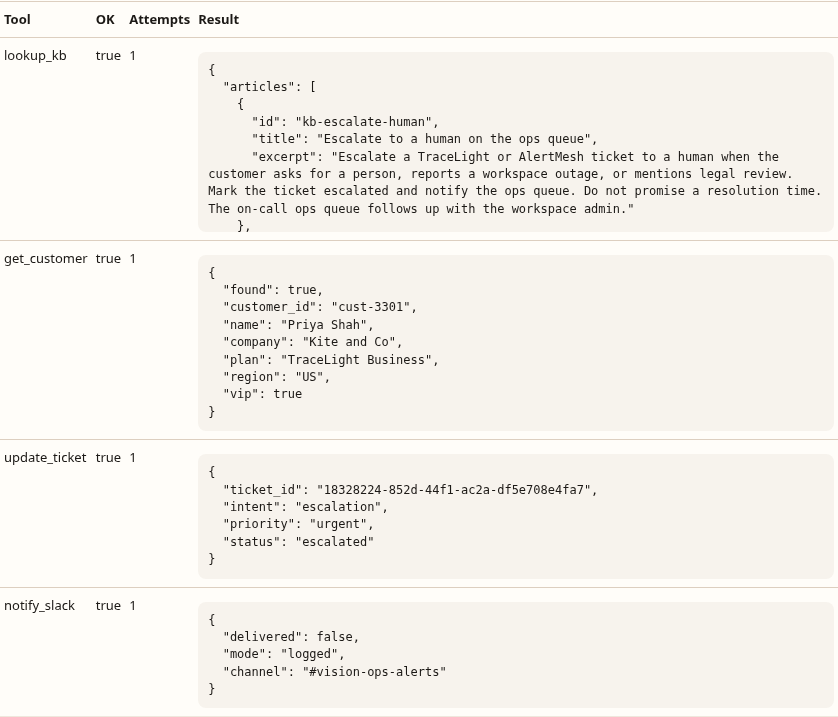
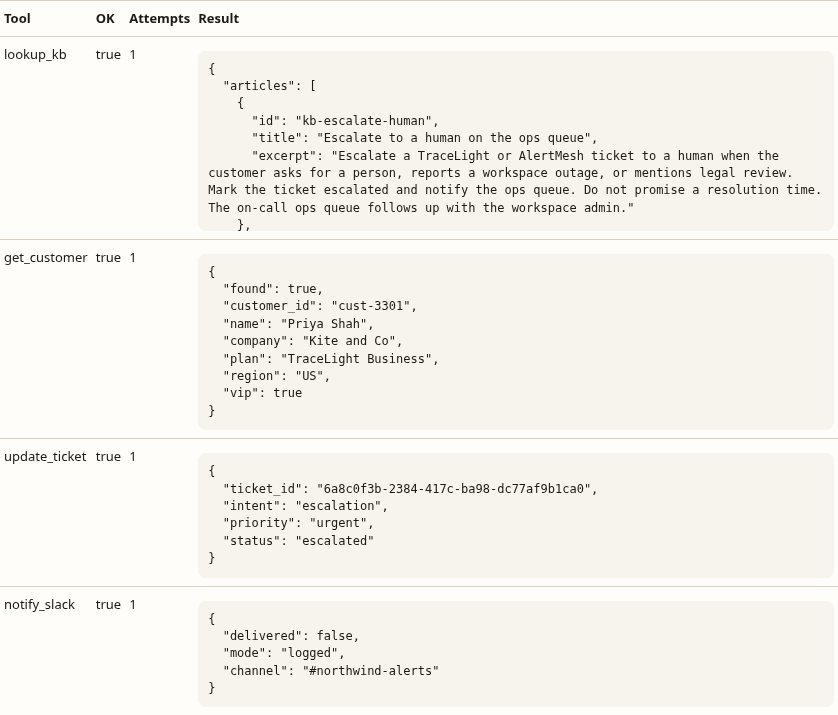
chore: rename the fictional company to Northwind Systems
Drop Vision AI Ops from the demo, knowledge base, handoff page, and n8n bridge. The workflow file is now n8n/ticket-bridge.json.

diff --git a/app/web/handoff.html b/app/web/handoff.html
@@ -3,7 +3,7 @@
 <head>
   <meta charset="utf-8">
   <meta name="viewport" content="width=device-width, initial-scale=1">
-  <title>Human handoff — Vision AI Ops</title>
+  <title>Human handoff — Northwind Systems</title>
   <style>
     :root {
       --bg: #efe7dc;
@@ -136,7 +136,7 @@
   <header>
     <div>
       <h1>Human handoff</h1>
-      <p class="lede">Vision AI Ops desk. Read ticket status and the tool trace, then escalate or assign a queue. The planner is not called again.</p>
+      <p class="lede">Northwind Systems desk for northwind.example. Read ticket status and the tool trace, then escalate or assign a queue. The planner is not called again.</p>
     </div>
     <p class="lede">Local demo on port 8789. Fictional tickets only.</p>
   </header>

diff --git a/app/agent/planner.py b/app/agent/planner.py
@@ -53,7 +53,7 @@ class HeuristicPlanner:
         if not _seen(history, "lookup_kb"):
             query = f"{ticket.subject}. {ticket.body}"[:500]
             return Decision(
-                thought="Look up Vision AI Ops notes before answering.",
+                thought="Look up Northwind Systems (northwind.example) notes before answering.",
                 action="tool",
                 tool="lookup_kb",
                 arguments={"query": query},
@@ -83,7 +83,7 @@ class HeuristicPlanner:
                 action="tool",
                 tool="notify_slack",
                 arguments={
-                    "channel": get_settings().slack_channel or "#vision-ops-alerts",
+                    "channel": get_settings().slack_channel or "#northwind-alerts",
                     "intent": classification.intent,
                     "priority": classification.priority,
                 },
@@ -144,7 +144,7 @@ class LlmPlanner:
 def _messages(ticket: Ticket, history: list[dict]) -> list[dict[str, str]]:
     tool_list = "lookup_kb, get_customer, create_ticket, update_ticket, notify_slack"
     system = (
-        "You are the planner for a Vision AI Ops customer operations agent. "
+        "You are the planner for a Northwind Systems (northwind.example) customer operations agent. "
         "Reply with ONLY JSON: "
         '{"thought":"short","action":"tool"|"final","tool":"name or null",'
         '"arguments":{},"final_reply":"string or null"}. '
@@ -156,7 +156,7 @@ def _messages(ticket: Ticket, history: list[dict]) -> list[dict[str, str]]:
         "priority is low|medium|high|urgent, "
         "status is open|in_progress|waiting_customer|resolved|escalated. "
         "notify_slack arguments: {channel, intent, priority} and channel must be "
-        "#vision-ops-alerts. Use tools before the final reply."
+        "#northwind-alerts. Use tools before the final reply."
     )
     summary = [
         {

diff --git a/app/models/schemas.py b/app/models/schemas.py
@@ -176,7 +176,7 @@ class N8nInbound(BaseModel):
     customer_id: str | None = Field(default=None, max_length=64, pattern=r"^[A-Za-z0-9_-]+$")
     channel: Channel = "portal"
     external_id: str | None = Field(default=None, max_length=128, pattern=r"^[A-Za-z0-9_.:-]+$")
-    workflow: str = Field(default="vision-ops-ticket-bridge", max_length=80, pattern=r"^[A-Za-z0-9_.:-]+$")
+    workflow: str = Field(default="ticket-bridge", max_length=80, pattern=r"^[A-Za-z0-9_.:-]+$")
 
 
 class N8nInboundOut(BaseModel):
@@ -191,7 +191,7 @@ class N8nInboundOut(BaseModel):
 
 class N8nStatusIn(BaseModel):
     ticket_id: str = Field(min_length=1, max_length=36)
-    workflow: str = Field(default="vision-ops-ticket-bridge", max_length=80, pattern=r"^[A-Za-z0-9_.:-]+$")
+    workflow: str = Field(default="ticket-bridge", max_length=80, pattern=r"^[A-Za-z0-9_.:-]+$")
     status: N8nBridgeStatus
     external_id: str | None = Field(default=None, max_length=128, pattern=r"^[A-Za-z0-9_.:-]+$")
     note: str | None = Field(default=None, max_length=300)

diff --git a/scripts/capture_demo.py b/scripts/capture_demo.py
@@ -27,7 +27,7 @@ from pathlib import Path
 
 ROOT = Path(__file__).resolve().parents[1]
 OUT = ROOT / "docs" / "screenshots"
-WORKFLOW = ROOT / "n8n" / "vision-ops-ticket-bridge.json"
+WORKFLOW = ROOT / "n8n" / "ticket-bridge.json"
 DEMOS = ROOT / "examples" / "demo_requests.json"
 
 
@@ -93,7 +93,7 @@ def _canvas(workflow: dict) -> str:
   .arrow:after {{ content: ""; position: absolute; right: -1px; top: -4px; border: 5px solid transparent; border-left-color: #0e5f57; }}
 </style></head>
 <body><main>
-  <h1>Workflow map — n8n/vision-ops-ticket-bridge.json</h1>
+  <h1>Workflow map — n8n/ticket-bridge.json</h1>
   <p>Not a live n8n editor. Import the JSON to open this graph in n8n. The HTTP nodes read OPS_AGENT_URL and OPS_AGENT_API_KEY from the n8n environment.</p>
   <div class="canvas">{inner}</div>
 </main></body></html>"""

diff --git a/app/tools/__init__.py b/app/tools/__init__.py
@@ -61,7 +61,7 @@ class UpdateTicketArgs(BaseModel):
 
 class NotifySlackArgs(BaseModel):
     model_config = ConfigDict(extra="forbid")
-    channel: str = "#vision-ops-alerts"
+    channel: str = "#northwind-alerts"
     intent: Intent
     priority: Priority
 
@@ -196,7 +196,7 @@ def update_ticket(ctx: ToolContext, args: UpdateTicketArgs) -> dict:
 
 def notify_slack(ctx: ToolContext, args: NotifySlackArgs) -> dict:
     """Post a metadata-only line, or log when SLACK_WEBHOOK_URL is unset."""
-    allowed = (get_settings().slack_channel or "#vision-ops-alerts").strip()
+    allowed = (get_settings().slack_channel or "#northwind-alerts").strip()
     if args.channel != allowed:
         raise ToolError("channel_not_allowed")
     # Planner-supplied prose is ignored. The payload is ticket metadata only.

diff --git a/tests/test_n8n.py b/tests/test_n8n.py
@@ -3,7 +3,7 @@ import logging
 from pathlib import Path
 
 CRM_EMAIL = "priya.shah@kite.example"
-WORKFLOW = Path("n8n/vision-ops-ticket-bridge.json")
+WORKFLOW = Path("n8n/ticket-bridge.json")
 INBOUND = Path("examples/n8n_inbound.json")
 
 
@@ -19,7 +19,7 @@ def test_inbound_runs_agent_and_status_round_trip(client, auth_headers, caplog):
     body = created.json()
     assert body["accepted"] is True
     assert body["idempotent"] is False
-    assert body["workflow"] == "vision-ops-ticket-bridge"
+    assert body["workflow"] == "ticket-bridge"
     assert body["external_id"] == payload["external_id"]
     assert body["run"]["intent"] == "escalation"
     assert body["run"]["ticket_status"] == "escalated"

diff --git a/app/core/config.py b/app/core/config.py
@@ -35,7 +35,7 @@ class Settings(BaseSettings):
     ai_max_retries: int = 3
 
     slack_webhook_url: str = ""
-    slack_channel: str = "#vision-ops-alerts"
+    slack_channel: str = "#northwind-alerts"
 
     max_tool_rounds: int = Field(default=6, ge=1, le=12)
     tool_max_attempts: int = Field(default=3, ge=1, le=5)

diff --git a/README.md b/README.md
@@ -2,13 +2,13 @@
 
 [![CI](https://github.com/Birra3324/customer-operations-agent/actions/workflows/ci.yml/badge.svg)](https://github.com/Birra3324/customer-operations-agent/actions/workflows/ci.yml)
 
-> Open to remote AI automation roles. Email: birragemedi@gmail.com | GitHub: @Birra3324 | LinkedIn: linkedin.com/in/birra-gemedi-813337199/
+> Open to remote AI automation roles. Email: birragemedi@gmail.com | GitHub: @Birra3324 | LinkedIn: https://www.linkedin.com/in/birra-gemedi-813337199/
 
 FastAPI service that turns a support ticket into a structured agent run: a planner chooses the next step, an executor calls allowlisted mock tools, and SQLite stores the plan, tool trace, reply, and ticket status.
 
 Built as a local portfolio demo. The default planner is a deterministic heuristic, so clone, pytest, and the walkthrough need no GPU, no Ollama, and no paid API key. Ollama or OpenAI are optional via environment variables. Source: [github.com/Birra3324/customer-operations-agent](https://github.com/Birra3324/customer-operations-agent) (no hosted demo URL).
 
-Sample tickets are fictional **Vision AI Ops** requests (TraceLight / AlertMesh), the same made-up company as the company RAG demo. There is no real customer data in git.
+Sample tickets are fictional **Northwind Systems** (northwind.example) requests (TraceLight / AlertMesh), the same made-up company as the company RAG demo. There is no real customer data in git.
 
 **How to demo:** [10–15 minute walkthrough](docs/demo.md) — venv, uvicorn on `:8789`, post the three [example tickets](examples/demo_requests.json), open the [handoff page](http://127.0.0.1:8789/handoff), then the [n8n bridge](docs/n8n.md). Screenshots: [docs/screenshots](docs/screenshots/).
 
@@ -138,7 +138,7 @@ The run record includes `plan` (planner and executor steps), `tool_calls`, `fina
 
 | Tool | What it does |
 | --- | --- |
-| `lookup_kb` | Searches `data/kb.json` (fictional Vision AI Ops articles). |
+| `lookup_kb` | Searches `data/kb.json` (fictional Northwind Systems articles for northwind.example). |
 | `get_customer` | Reads `data/crm.json`. Email stays in the file and is not returned. |
 | `create_ticket` | Inserts a ticket row. The HTTP create path opens the row first; the tool is for agent-driven creates. |
 | `update_ticket` | Sets intent, priority, and status on the current ticket only. |
@@ -185,7 +185,7 @@ Expectations for those three are in [evals/scenarios.json](evals/scenarios.json)
 
 With the API running, open [http://127.0.0.1:8789/handoff](http://127.0.0.1:8789/handoff), paste `API_KEY`, and load the queue. You can escalate, assign `ops-queue`, `billing-desk`, or `access-desk`, or mark a ticket resolved. That does not call the planner again.
 
-The n8n workflow is [n8n/vision-ops-ticket-bridge.json](n8n/vision-ops-ticket-bridge.json). Import notes and the no-n8n curl path are in [docs/n8n.md](docs/n8n.md).
+The n8n workflow is [n8n/ticket-bridge.json](n8n/ticket-bridge.json). Import notes and the no-n8n curl path are in [docs/n8n.md](docs/n8n.md).
 
 ```bash
 API_KEY="$API_KEY" python scripts/post_n8n_demo.py

diff --git a/docs/demo.md b/docs/demo.md
@@ -128,7 +128,7 @@ Queues are the three fictional names `ops-queue`, `billing-desk`, and `access-de
 
 ## 7. n8n bridge (~3 min)
 
-You do not need n8n installed to show the path. The importable workflow is [n8n/vision-ops-ticket-bridge.json](../n8n/vision-ops-ticket-bridge.json). The HTTP nodes call this API and read `OPS_AGENT_URL` and `OPS_AGENT_API_KEY` from the n8n environment. The key is not in the JSON. Full notes: [n8n.md](n8n.md).
+You do not need n8n installed to show the path. The importable workflow is [n8n/ticket-bridge.json](../n8n/ticket-bridge.json). The HTTP nodes call this API and read `OPS_AGENT_URL` and `OPS_AGENT_API_KEY` from the n8n environment. The key is not in the JSON. Full notes: [n8n.md](n8n.md).
 
 ```bash
 API_KEY="$API_KEY" python scripts/post_n8n_demo.py
@@ -140,10 +140,10 @@ Talking points:
 
 - HTTP 201 the first time, with `idempotent: false`, intent `escalation`, and a tool trace.
 - Run the script again. HTTP 200, `idempotent: true`, same ticket id and same run id. `external_id` is `demo-n8n-kite-outage`.
-- Reload the handoff page. The ticket detail includes an n8n line: `vision-ops-ticket-bridge · status.posted`.
+- Reload the handoff page. The ticket detail includes an n8n line: `ticket-bridge · status.posted`.
 - `GET /api/v1/integrations/n8n/events` lists those rows. The status callback does not overwrite the ticket status.
 
-[screenshots/n8n-canvas.png](screenshots/n8n-canvas.png) is a map of the three nodes (receive, call the agent, post status). It is not a live n8n editor. If n8n is installed, import the JSON, set the two environment variables on the n8n process, activate the workflow, and POST the subject/body from `examples/n8n_inbound.json` to the webhook path `vision-ops-ticket`. Leave the API key out of the file.
+[screenshots/n8n-canvas.png](screenshots/n8n-canvas.png) is a map of the three nodes (receive, call the agent, post status). It is not a live n8n editor. If n8n is installed, import the JSON, set the two environment variables on the n8n process, activate the workflow, and POST the subject/body from `examples/n8n_inbound.json` to the webhook path `northwind-ticket`. Leave the API key out of the file.
 
 ## 8. Optional: show the retry (~1 min)
 

diff --git a/docs/architecture.md b/docs/architecture.md
@@ -69,7 +69,7 @@ Guardrails:
 - **Arguments.** Each tool has a Pydantic model with `extra=forbid`. Unknown fields such as a URL on `lookup_kb` return `invalid_arguments` and the tool body does not run.
 - **Max rounds.** `MAX_TOOL_ROUNDS` (default 6). Hitting the cap stores `status=needs_review` and does not keep calling tools.
 - **No open network.** Knowledge and CRM reads are local files. Ticket writes are SQLite. The only HTTP client in the tool layer is the Slack webhook, and only when `SLACK_WEBHOOK_URL` is set. The message body is built inside the tool; planner-supplied prose is not posted.
-- **Channel.** `notify_slack` accepts only `SLACK_CHANNEL` (default `#vision-ops-alerts`).
+- **Channel.** `notify_slack` accepts only `SLACK_CHANNEL` (default `#northwind-alerts`).
 
 ## Retry and backoff
 
@@ -113,7 +113,7 @@ SQLite files created before these columns exist get `assignee`, `handoff_note`, 
 
 ## n8n bridge
 
-The workflow in `n8n/vision-ops-ticket-bridge.json` is inactive until someone turns it on. Webhook, then `POST /api/v1/integrations/n8n/inbound`, then `POST /api/v1/integrations/n8n/status`.
+The workflow in `n8n/ticket-bridge.json` is inactive until someone turns it on. Webhook, then `POST /api/v1/integrations/n8n/inbound`, then `POST /api/v1/integrations/n8n/status`.
 
 Inbound uses the same `add_ticket` and `run_agent` path as `POST /api/v1/tickets`. When `external_id` is set, a `dedupe_key` of `n8n:ticket.created:{external_id}` makes a second delivery return the original run. Status events are extra rows on `integration_events` and do not change the ticket. The API key stays in the n8n environment (`OPS_AGENT_API_KEY`), which this process does not read.
 

diff --git a/docs/n8n.md b/docs/n8n.md
@@ -1,10 +1,10 @@
 # n8n webhook bridge
 
-The file [n8n/vision-ops-ticket-bridge.json](../n8n/vision-ops-ticket-bridge.json) is an n8n 1.x workflow you import. It is not a running n8n server, and this repo does not claim a Workato, MuleSoft, or ServiceNow integration.
+The file [n8n/ticket-bridge.json](../n8n/ticket-bridge.json) is an n8n 1.x workflow you import. It is not a running n8n server, and this repo does not claim a Workato, MuleSoft, or ServiceNow integration.
 
 The workflow does three things:
 
-1. **Receive ticket event** — webhook `POST /webhook/vision-ops-ticket`
+1. **Receive ticket event** — webhook `POST /webhook/northwind-ticket`
 2. **Call agent API** — `POST /api/v1/integrations/n8n/inbound` on this service
 3. **Post status** — `POST /api/v1/integrations/n8n/status` with the ticket id the agent returned
 
@@ -62,7 +62,7 @@ Then post status (the script does this for you):
 curl -sS -X POST http://127.0.0.1:8789/api/v1/integrations/n8n/status \
   -H "content-type: application/json" \
   -H "X-API-Key: $API_KEY" \
-  -d '{"ticket_id":"TICKET_ID","workflow":"vision-ops-ticket-bridge","status":"posted","external_id":"demo-n8n-kite-outage","note":"n8n bridge posted agent status"}'
+  -d '{"ticket_id":"TICKET_ID","workflow":"ticket-bridge","status":"posted","external_id":"demo-n8n-kite-outage","note":"n8n bridge posted agent status"}'
 ```
 
 `status` on that callback is `posted`, `failed`, or `skipped`. It records a row. It does not change the ticket status the agent already wrote. Open [http://127.0.0.1:8789/handoff](http://127.0.0.1:8789/handoff) and the ticket detail lists the n8n line.

diff --git a/docs/status.md b/docs/status.md
@@ -19,7 +19,7 @@ This is not a UiPath, Workato, MuleSoft, or ServiceNow project. The stack is Fas
 - [x] Package layout: `app/`, `tests/`, `docs/`, `examples/`, `evals/`, `scripts/`, `.github/workflows/ci.yml`
 - [x] `.env.example`, Dockerfile, docker compose (API + SQLite volume), MIT license, `.gitignore`
 - [x] README with a clone-and-run path, architecture diagram, and contact line
-- [x] Fictional Vision AI Ops tickets only
+- [x] Fictional Northwind Systems (northwind.example) tickets only
 
 ### Day 20 — tools and policy
 
@@ -68,7 +68,7 @@ This is not a UiPath, Workato, MuleSoft, or ServiceNow project. The stack is Fas
 
 ### Day 23 — n8n bridge
 
-- [x] Importable workflow [n8n/vision-ops-ticket-bridge.json](../n8n/vision-ops-ticket-bridge.json): webhook, call the agent, post status
+- [x] Importable workflow [n8n/ticket-bridge.json](../n8n/ticket-bridge.json): webhook, call the agent, post status
 - [x] `POST /api/v1/integrations/n8n/inbound` creates a ticket and runs the heuristic planner
 - [x] The same `external_id` returns the original ticket and run (`idempotent: true`)
 - [x] `POST /api/v1/integrations/n8n/status` records `posted`, `failed`, or `skipped` and does not rewrite ticket status
@@ -100,7 +100,7 @@ This is not a UiPath, Workato, MuleSoft, or ServiceNow project. The stack is Fas
 
 Constraints that stay true for the whole track:
 
-- Fictional Vision AI Ops data only
+- Fictional Northwind Systems (northwind.example) data only
 - No real API keys, Slack tokens, or customer traces in git
 - No UiPath / Workato / MuleSoft / ServiceNow claims
 - Default path works offline
